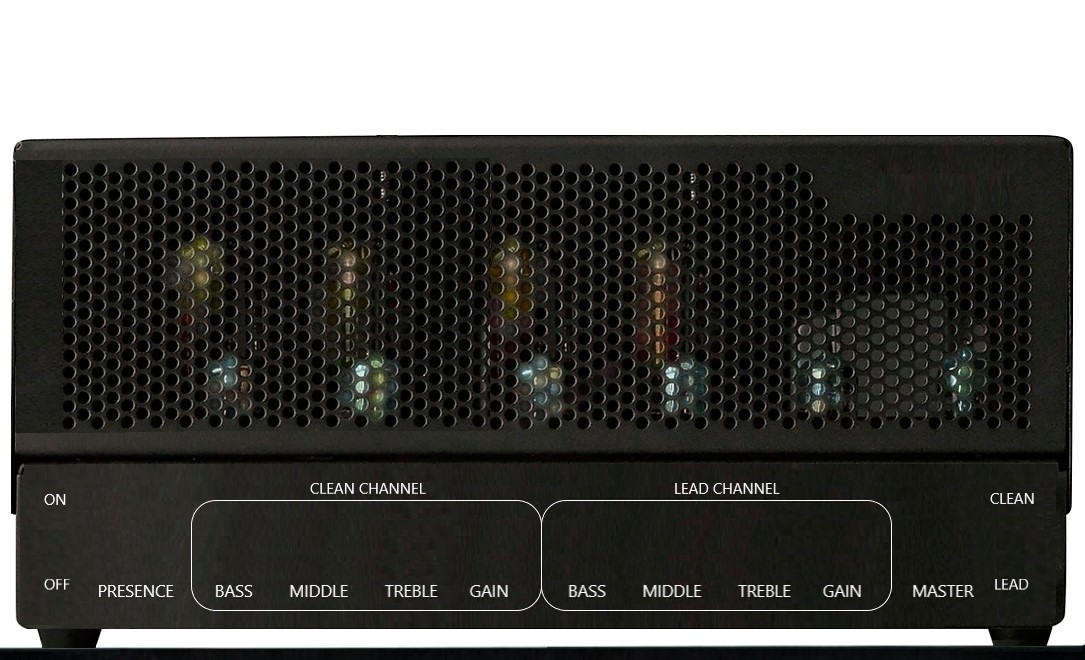
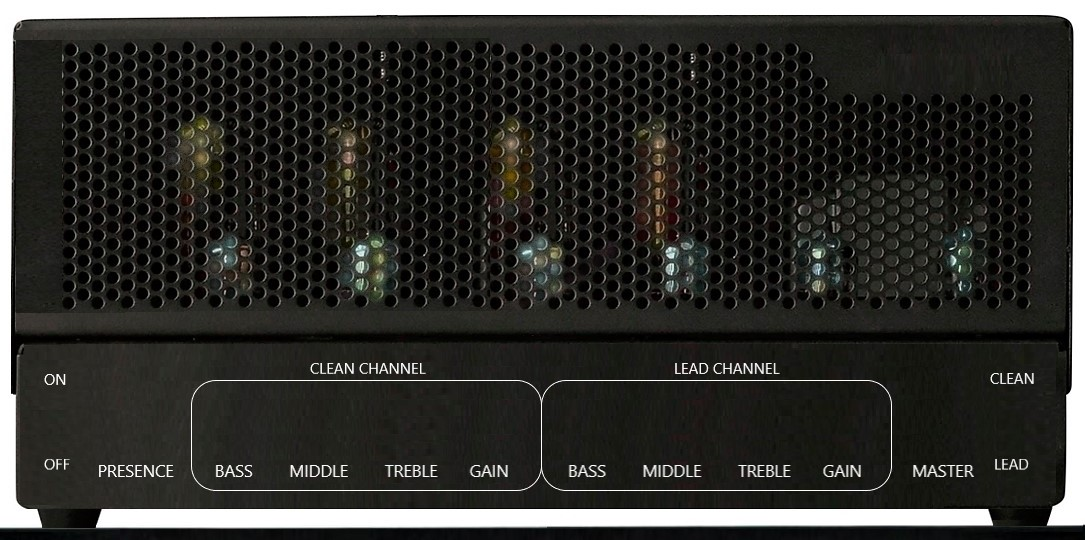
more dev

diff --git a/src/PluginProcessor.cpp b/src/PluginProcessor.cpp
@@ -22,11 +22,11 @@ SmartAmpAudioProcessor::SmartAmpAudioProcessor()
         .withOutput("Output", AudioChannelSet::stereo(), true)
 #endif
     ),
-    treeState(*this, nullptr, "PARAMETER", { std::make_unique<AudioParameterFloat>(CLEAN_GAIN_ID, CLEAN_GAIN_NAME, NormalisableRange<float>(-10.0f, 10.0f, 0.01f), 0.0f),
+    treeState(*this, nullptr, "PARAMETER", { std::make_unique<AudioParameterFloat>(CLEAN_GAIN_ID, CLEAN_GAIN_NAME, NormalisableRange<float>(0.0f, 1.0f, 0.01f), 0.0f),
                     std::make_unique<AudioParameterFloat>(CLEAN_BASS_ID, CLEAN_BASS_NAME, NormalisableRange<float>(-8.0f, 8.0f, 0.01f), 0.0f),
                     std::make_unique<AudioParameterFloat>(CLEAN_MID_ID, CLEAN_MID_NAME, NormalisableRange<float>(-8.0f, 8.0f, 0.01f), 0.0f),
                     std::make_unique<AudioParameterFloat>(CLEAN_TREBLE_ID, CLEAN_TREBLE_NAME, NormalisableRange<float>(-8.0f, 8.0f, 0.01f), 0.0f),
-                    std::make_unique<AudioParameterFloat>(LEAD_GAIN_ID, LEAD_GAIN_NAME, NormalisableRange<float>(-10.0f, 10.0f, 0.01f), 0.0f),
+                    std::make_unique<AudioParameterFloat>(LEAD_GAIN_ID, LEAD_GAIN_NAME, NormalisableRange<float>(0.0f, 1.0f, 0.01f), 0.0f),
                     std::make_unique<AudioParameterFloat>(LEAD_BASS_ID, LEAD_BASS_NAME, NormalisableRange<float>(-8.0f, 8.0f, 0.01f), 0.0f),
                     std::make_unique<AudioParameterFloat>(LEAD_MID_ID, LEAD_MID_NAME, NormalisableRange<float>(-8.0f, 8.0f, 0.01f), 0.0f),
                     std::make_unique<AudioParameterFloat>(LEAD_TREBLE_ID, LEAD_TREBLE_NAME, NormalisableRange<float>(-8.0f, 8.0f, 0.01f), 0.0f),
@@ -125,13 +125,10 @@ void SmartAmpAudioProcessor::prepareToPlay (double sampleRate, int samplesPerBlo
         LSTM.load_json3(weights_json);
     }
 
-   
-
     // set up DC blocker
     dcBlocker.coefficients = dsp::IIR::Coefficients<float>::makeHighPass(sampleRate, 35.0f);
     dsp::ProcessSpec spec{ sampleRate, static_cast<uint32> (samplesPerBlock), 2 };
     dcBlocker.prepare(spec);
-
 }
 
 void SmartAmpAudioProcessor::releaseResources()
@@ -179,16 +176,13 @@ void SmartAmpAudioProcessor::processBlock (AudioBuffer<float>& buffer, MidiBuffe
         //    EQ (Presence, Bass, Mid, Treble)
         eq4band.process(buffer.getReadPointer(0), buffer.getWritePointer(0), midiMessages, numSamples, numInputChannels, sampleRate);
 
+        
+        if (amp_lead == 0) {
+            ampDrive = ampCleanGainKnobState;
+        } else {
+            ampDrive = ampLeadGainKnobState;
+        }
 
-        // Apply ramped changes for gain smoothing
-        if (ampDrive == previousAmpDrive)
-        {
-            buffer.applyGain(ampDrive);
-        }
-        else {
-            buffer.applyGainRamp(0, numSamples, previousAmpDrive, ampDrive);
-            previousAmpDrive = ampDrive;
-        }
 
         // resample to target sample rate
         auto block = dsp::AudioBlock<float>(buffer.getArrayOfWritePointers(), 1, numSamples);
@@ -196,20 +190,20 @@ void SmartAmpAudioProcessor::processBlock (AudioBuffer<float>& buffer, MidiBuffe
 
         // Apply LSTM model
         //LSTM.process(block44k.getChannelPointer(0), block44k.getChannelPointer(0), (int)block44k.getNumSamples());
-        LSTM.process(block44k.getChannelPointer(0), gainValue, block44k.getChannelPointer(0), (int) block44k.getNumSamples());
+        LSTM.process(block44k.getChannelPointer(0), ampDrive, block44k.getChannelPointer(0), (int) block44k.getNumSamples());
 
         // resample back to original sample rate
         resampler.processOut(block44k, block);
 
         // Master Volume 
         // Apply ramped changes for gain smoothing
-        if (ampMaster == previousAmpMaster)
+        if (ampMasterKnobState == previousAmpMaster)
         {
-            buffer.applyGain(ampMaster);
+            buffer.applyGain(ampMasterKnobState);
         }
         else {
-            buffer.applyGainRamp(0, (int)block44k.getNumSamples(), previousAmpMaster, ampMaster);
-            previousAmpMaster = ampMaster;
+            buffer.applyGainRamp(0, (int)buffer.getNumSamples(), previousAmpMaster, ampMasterKnobState);
+            previousAmpMaster = ampMasterKnobState;
         }
 
         // Custom Level for quieter models
@@ -294,7 +288,7 @@ float SmartAmpAudioProcessor::convertLogScale(float in_value, float x_min, float
     float converted_value = a * exp(b * in_value);
     return converted_value;
 }
-*/
+
 void SmartAmpAudioProcessor::set_ampCleanDrive(float db_ampCleanDrive)
 {
     //ampCleanDrive = decibelToLinear(db_ampCleanDrive);
@@ -315,7 +309,7 @@ void SmartAmpAudioProcessor::set_ampMaster(float db_ampMaster)
     //ampMaster = decibelToLinear(db_ampMaster);
     ampMasterKnobState = db_ampMaster;
 }
-
+*/
 
 
 void SmartAmpAudioProcessor::set_ampEQ(float bass_slider, float mid_slider, float treble_slider, float presence_slider)

diff --git a/src/PluginEditor.cpp b/src/PluginEditor.cpp
@@ -97,7 +97,7 @@ SmartAmpAudioProcessorEditor::SmartAmpAudioProcessorEditor (SmartAmpAudioProcess
     addAndMakeVisible(ampCleanGainKnob);
     ampCleanGainKnob.setLookAndFeel(&ampSilverKnobLAF);
     ampCleanGainKnob.addListener(this);
-    ampCleanGainKnob.setRange(0.0, 20.0);
+    ampCleanGainKnob.setRange(0.0, 1.0);
     ampCleanGainKnob.setValue(processor.ampCleanGainKnobState);
     ampCleanGainKnob.setSliderStyle(juce::Slider::SliderStyle::RotaryVerticalDrag);
     ampCleanGainKnob.setTextBoxStyle(juce::Slider::TextEntryBoxPosition::NoTextBox, false, 50, 20);
@@ -141,7 +141,7 @@ SmartAmpAudioProcessorEditor::SmartAmpAudioProcessorEditor (SmartAmpAudioProcess
     addAndMakeVisible(ampLeadGainKnob);
     ampLeadGainKnob.setLookAndFeel(&ampSilverKnobLAF);
     ampLeadGainKnob.addListener(this);
-    ampLeadGainKnob.setRange(0.0, 20.0);
+    ampLeadGainKnob.setRange(0.0, 1.0);
     ampLeadGainKnob.setValue(processor.ampLeadGainKnobState);
     ampLeadGainKnob.setSliderStyle(juce::Slider::SliderStyle::RotaryVerticalDrag);
     ampLeadGainKnob.setTextBoxStyle(juce::Slider::TextEntryBoxPosition::NoTextBox, false, 50, 20);
@@ -160,7 +160,7 @@ SmartAmpAudioProcessorEditor::SmartAmpAudioProcessorEditor (SmartAmpAudioProcess
     ampMasterKnob.setDoubleClickReturnValue(true, -12.0);
 
     // Size of plugin GUI
-    setSize (1085, 660);
+    setSize (1085, 540);
 
 }
 
@@ -237,23 +237,24 @@ void SmartAmpAudioProcessorEditor::resized()
     // This is generally where you'll want to lay out the positions of any
     // subcomponents in your editor..
 
-    versionLabel.setBounds(50, 65, 400, 25);
+    versionLabel.setBounds(50, 65, 925, 510);
     // Amp Widgets
-    ampPresenceKnob.setBounds(97, 495, 75, 105);
-    ampCleanBassKnob.setBounds(197, 495, 75, 105);
-    ampCleanMidKnob.setBounds(280, 495, 75, 105);
-    ampCleanTrebleKnob.setBounds(378, 495, 75, 105);
-    ampCleanGainKnob.setBounds(456, 495, 75, 105);
-    ampLeadBassKnob.setBounds(553, 495, 75, 105);
-    ampLeadMidKnob.setBounds(636, 495, 75, 105);
-    ampLeadTrebleKnob.setBounds(726, 495, 75, 105);
-    ampLeadGainKnob.setBounds(806, 495, 75, 105);
-    ampMasterKnob.setBounds(903, 495, 75, 105);
+    //ampPresenceKnob.setBounds(97, 375, 75, 105);
+    ampPresenceKnob.setBounds(97, 375, 75, 105);
+    ampCleanBassKnob.setBounds(197, 375, 75, 105);
+    ampCleanMidKnob.setBounds(280, 375, 75, 105);
+    ampCleanTrebleKnob.setBounds(378, 375, 75, 105);
+    ampCleanGainKnob.setBounds(456, 375, 75, 105);
+    ampLeadBassKnob.setBounds(553, 375, 75, 105);
+    ampLeadMidKnob.setBounds(636, 375, 75, 105);
+    ampLeadTrebleKnob.setBounds(726, 375, 75, 105);
+    ampLeadGainKnob.setBounds(806, 375, 75, 105);
+    ampMasterKnob.setBounds(903, 375, 75, 105);
 
-    ampOnButton.setBounds(9, 495, 35, 45);
-    ampCleanLeadButton.setBounds(959, 495, 15, 25);
+    ampOnButton.setBounds(9, 375, 35, 45);
+    ampCleanLeadButton.setBounds(959, 375, 15, 25);
 
-    ampLED.setBounds(975, 160, 15, 25);
+    ampLED.setBounds(975, 40, 15, 25);
 }
 
 
@@ -296,11 +297,14 @@ void SmartAmpAudioProcessorEditor::sliderValueChanged(Slider* slider)
 {
     // Amp
     if (slider == &ampCleanGainKnob)
-        processor.set_ampCleanDrive(slider->getValue());
+        //processor.set_ampCleanDrive(slider->getValue());
+        processor.ampCleanGainKnobState = slider->getValue();
     else if (slider == &ampLeadGainKnob)
-        processor.set_ampLeadDrive(slider->getValue());
+        //processor.set_ampLeadDrive(slider->getValue());
+        processor.ampLeadGainKnobState = slider->getValue();
     else if (slider == &ampMasterKnob)
-        processor.set_ampMaster(slider->getValue());
+        //processor.set_ampMaster(slider->getValue());
+        processor.ampMasterKnobState = slider->getValue();
     else if (slider == &ampCleanBassKnob || slider == &ampCleanMidKnob || slider == &ampCleanTrebleKnob) {
         if (processor.amp_lead == 0)
             processor.set_ampEQ(ampCleanBassKnob.getValue(), ampCleanMidKnob.getValue(), ampCleanTrebleKnob.getValue(), ampPresenceKnob.getValue());

diff --git a/src/PluginProcessor.h b/src/PluginProcessor.h
@@ -85,9 +85,9 @@ public:
     float convertLogScale(float in_value, float x_min, float x_max, float y_min, float y_max);
 
     // Amp
-    void set_ampCleanDrive(float db_ampCleanDrive);
-    void set_ampLeadDrive(float db_ampLeadDrive);
-    void set_ampMaster(float db_ampMaster);
+    //void set_ampCleanDrive(float db_ampCleanDrive);
+    //void set_ampLeadDrive(float db_ampLeadDrive);
+    //void set_ampMaster(float db_ampMaster);
     void set_ampEQ(float bass_slider, float mid_slider, float treble_slider, float presence_slider);
 
     float decibelToLinear(float dbValue);
@@ -99,10 +99,10 @@ public:
     //File loaded_tone;
     //juce::String loaded_tone_name;
 
-    float ampDrive = 1.0;
-    float previousAmpDrive = 1.0;
-    float gainValue = 1.0;
-    float ampMaster = 1.0;
+    float ampDrive = 0.5;
+    //float previousAmpDrive = 0.5;
+    //float gainValue = 1.0;
+    //float ampMaster = 1.0;
     float previousAmpMaster = 1.0;
 
     // Amp knob states
@@ -110,12 +110,12 @@ public:
     float ampCleanBassKnobState = 0.0;
     float ampCleanMidKnobState = 0.0;
     float ampCleanTrebleKnobState = 0.0;
-    float ampCleanGainKnobState = 10.0;
+    float ampCleanGainKnobState = 0.5;
     float ampLeadBassKnobState = 0.0;
     float ampLeadMidKnobState = 0.0;
     float ampLeadTrebleKnobState = 0.0;
-    float ampLeadGainKnobState = 10.0;
-    float ampMasterKnobState = -12.0;
+    float ampLeadGainKnobState = 0.5;
+    float ampMasterKnobState = 1.0;
 
     bool lstm_state = true;
 
@@ -128,8 +128,8 @@ private:
     Eq4Band eq4band; // Amp EQ
 
     // Amp
-    float ampCleanDrive = 1.0;
-    float ampLeadDrive = 1.0;
+    //float ampCleanDrive = 1.0;
+    //float ampLeadDrive = 1.0;
     //float ampMaster = 1.0;
 
     var dummyVar;
